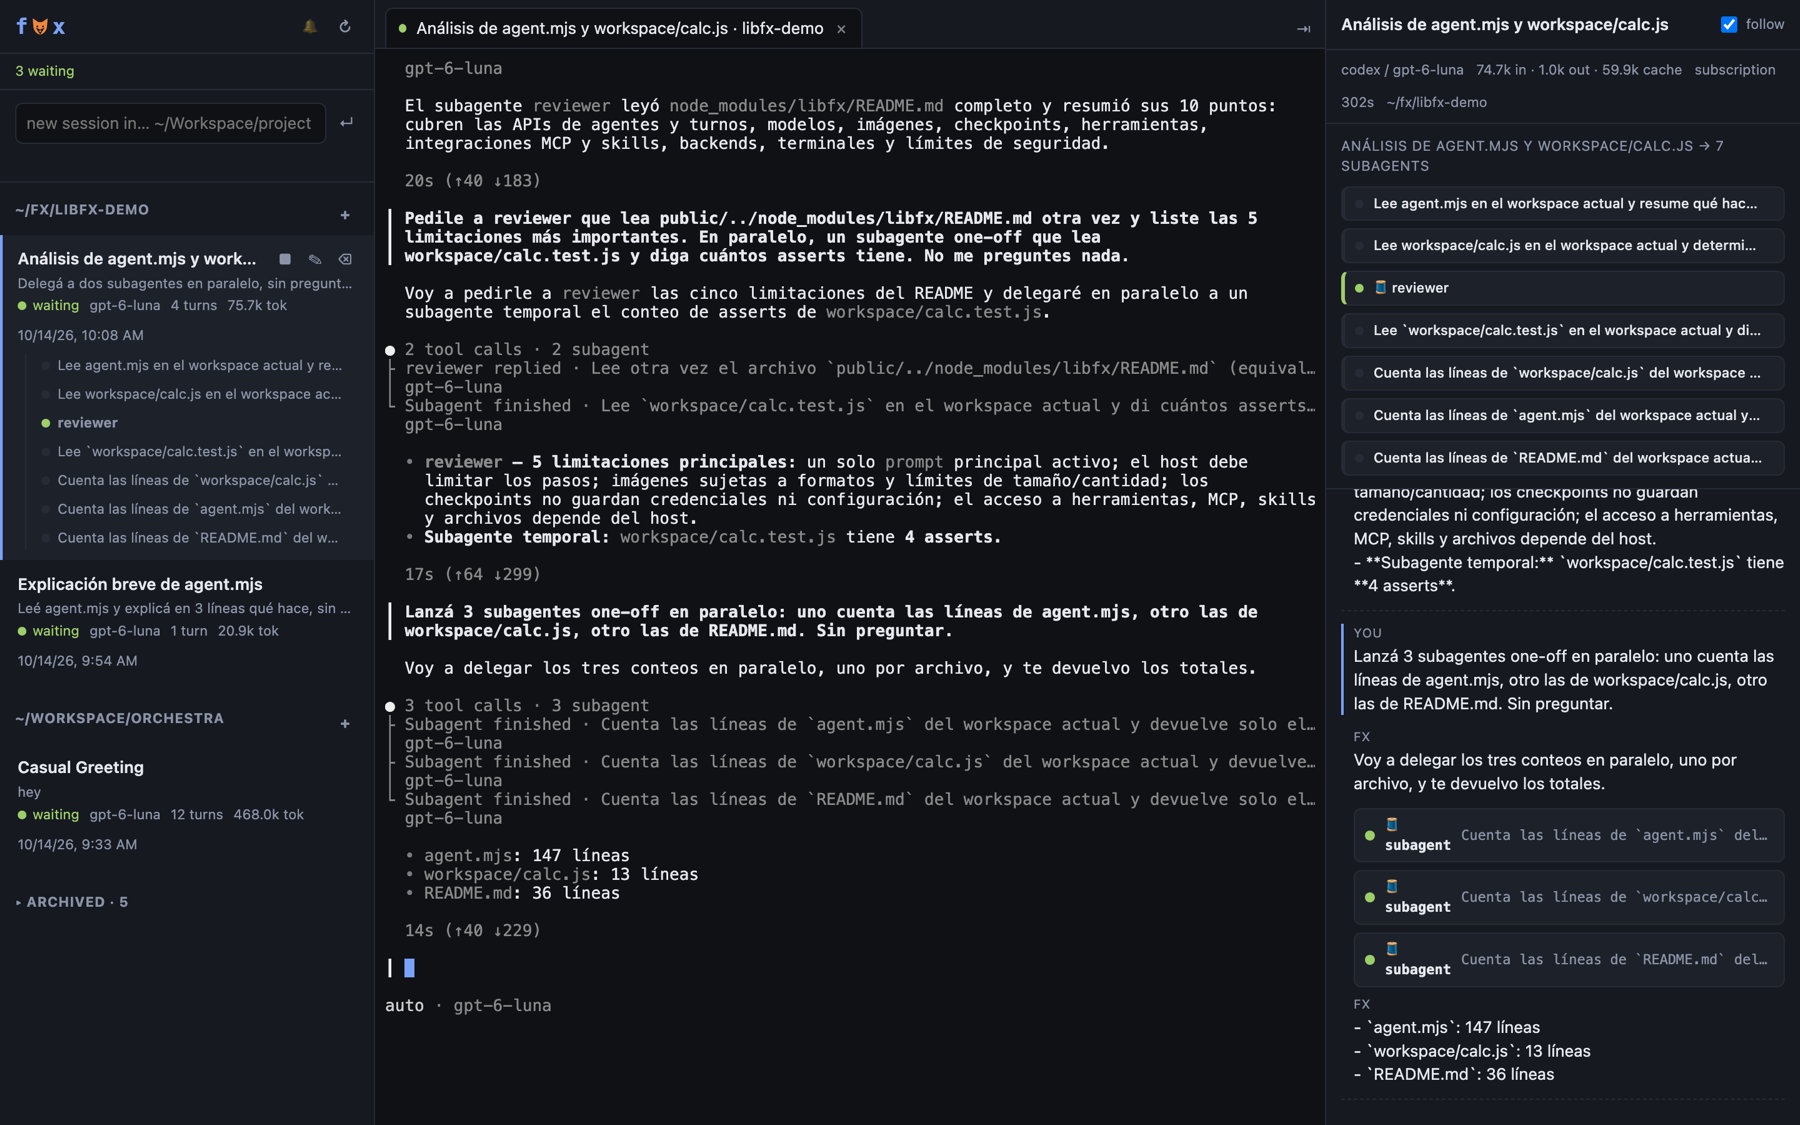
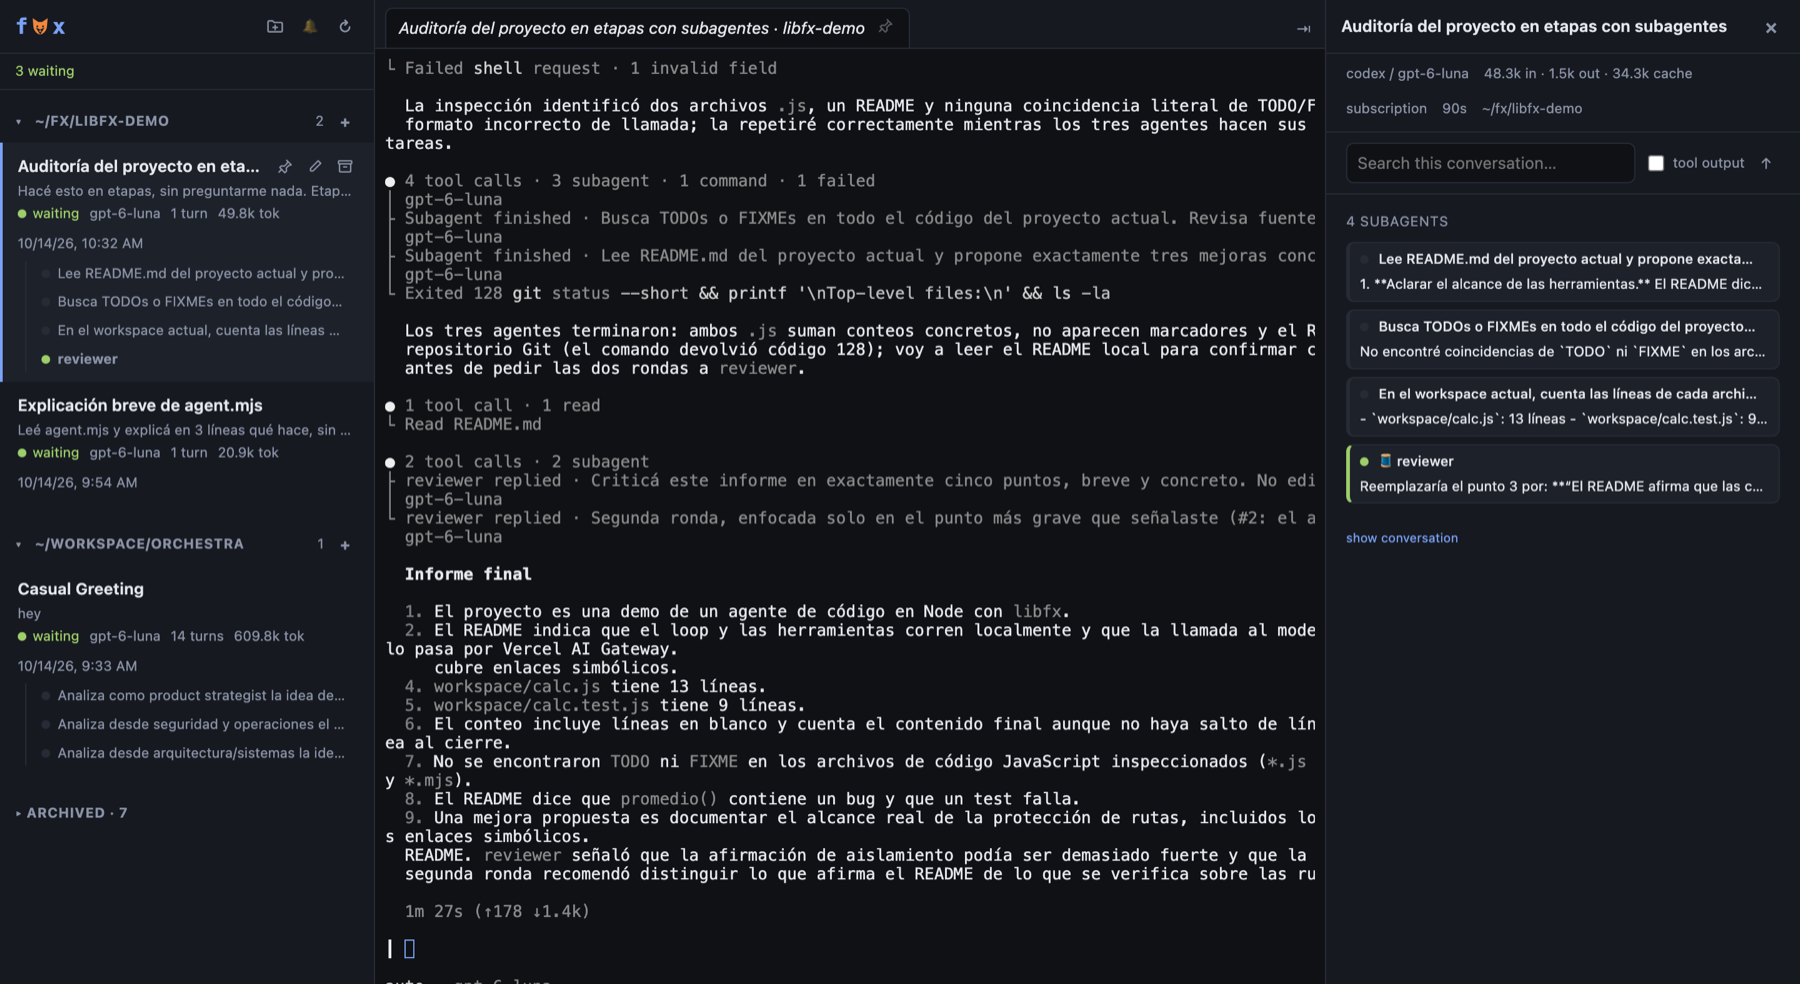
README rewrite for the current feature set; fresh screenshot

diff --git a/README.md b/README.md
@@ -3,27 +3,28 @@
 <h1 align="center">fox</h1>
 
 <p align="center"><b>A tiny local cockpit for the <a href="https://fx.sh">fx</a> coding agent.</b><br/>
-Every session, every subagent, every terminal. One tab. Nothing leaves your machine.</p>
+Every session, every subagent, one terminal that never dies. Nothing leaves your machine.</p>
 
-<p align="center"><img src="docs/screenshot.png" alt="fox: sessions on the left, a tmux-backed fx terminal in the middle, the subagent board and transcript on the right" /></p>
+<p align="center"><img src="docs/screenshot.png" alt="fox: sessions grouped by project on the left, the real fx terminal in the middle, subagents and search on the right" /></p>
 
-<p align="center"><sub>One parent session that delegated to seven subagents. Left: the tree. Middle: the real fx terminal. Right: each subagent's state, answer and conversation.</sub></p>
+<p align="center"><sub>Left: sessions by project, with subagents nested under their parent. Middle: the real fx terminal, running in tmux. Right: the subagent board, search, tokens.</sub></p>
 
 ---
 
-fx is a 7 MB coding agent that lives in your terminal. It is fast and it is honest about being a shell, which also means that once you have four of them running across three repos you lose track of which one is waiting for you.
+fx is a 7 MB coding agent that lives in your terminal. It is fast and honest about being a shell, which also means that once you have four of them across three repos you lose track of which one is waiting for you, and you never quite see what the subagents did.
 
-fox fixes that. It reads what fx already writes to `~/.fx`, runs each session inside tmux so it never dies with a browser tab, and shows you the whole picture:
+fox fixes that. It reads what fx already writes to `~/.fx`, runs every session inside tmux so nothing dies with a browser tab, and shows the whole picture. It never talks to a model itself: it only runs the real `fx` binary, so it uses whatever provider you logged fx into, a ChatGPT subscription included.
 
-- **Sidebar of sessions** grouped by project, with the first prompt under each title so "Casual Greeting" makes sense again.
-- **Live state per agent**: `working`, `waiting`, `needs input`. The summary at the top tells you where you are needed. Optional beep and desktop notification when something finishes.
-- **Subagents, visibly.** Children nest under their parent, with their phase pulsing in real time. Pick the parent and you get a board: one card per subagent with its task, elapsed time, result and tokens.
-- **Terminals that survive.** Each session runs in a tmux session named `fx-<id>`. Close the tab, reload, restart the server, open it from a real terminal with `tmux attach -t fx-<id>`. It is still there.
-- **Search the conversation.** Type in the right column, get the matching messages, click one and the real terminal jumps there (tmux copy-mode search, highlighted). ↑ walks to earlier matches, "done" leaves search mode.
-- **Transcript viewer** for sessions whose terminal is not open, with tool calls you can expand, plus tokens and cost per session. Collapsed by default, one click away.
-- **Archive and rename** without touching fx's files. fox keeps its own notes in `~/.config/fox/state.json`.
+## What it does
 
-fox does not talk to any model. It only ever runs the real `fx` binary, so it uses whatever provider you logged fx into, including a ChatGPT subscription.
+- **Sessions by project.** The sidebar groups fx sessions by workspace, collapsible per folder, with the first prompt under each title so fx's auto-generated names ("Casual Greeting") make sense. Groups with running agents sort first.
+- **Live state.** Each running session shows `working`, `waiting` or `needs input`, read from the tmux screen every few seconds. The summary at the top counts them. A 🔔 toggle beeps and sends a desktop notification when an agent finishes a turn or asks for input.
+- **Subagents, visibly.** Children nest under their parent and pulse while they run. Select the parent and you get one row per subagent with its state, elapsed time and the answer it returned. Select a child and you see exactly what it gave back to the parent, every round for named agents, and its own conversation underneath.
+- **One terminal, pinned tabs.** Clicking a session shows its terminal in the middle as a preview; clicking another replaces it. Pin the ones you want to keep as tabs. Either way fx keeps running in tmux: close the tab, reload, restart fox, `tmux attach -t fx-<id>` from a real terminal, it is all still there.
+- **Search the conversation.** Type in the right column, get the matching messages, click one and the terminal jumps to that text (tmux copy-mode search, highlighted). ↑ walks to earlier matches, `done` leaves search mode. Tool output and files the agent read are searchable too, behind a checkbox.
+- **Tokens and cost** per session, and a transcript viewer with expandable tool calls for sessions whose terminal is not open.
+- **Archive and rename** without touching fx's files. Archiving a running session stops its process first, after asking.
+- **Open any folder** with the native macOS picker, or the `+` on a group for a new session in that project.
 
 ## Run it
 
@@ -35,36 +36,50 @@ npm install
 npm start
 ```
 
-Open http://127.0.0.1:4848. `PORT` and `FX_BIN` are the only knobs. Deep links work too: `?session=<id>` selects a session, `?open=<id>` also opens its terminal.
+Open http://127.0.0.1:4848. Knobs: `PORT`, `FX_BIN` (path to the fx binary), `TMUX_BIN`.
+
+Deep links: `?session=<id>` selects a session, `?open=<id>` also opens its terminal.
 
 ## How to read the screen
 
-| Column | What it is |
+| Where | What |
 |---|---|
-| Left | Sessions from `~/.fx/sessions`, grouped by workspace. Click one to open it. `+` on a group starts a fresh session there. Hover for ✎ rename, ⌫ archive, ■ stop. |
-| Middle | The current terminal (preview, italic) plus pinned tabs. `📌` pins, `×` unpins. fx keeps running either way. |
-| Right (⇥) | Search box, tokens and cost, the subagent board when there are children, and the transcript when the session's terminal is not open. |
+| Left | Sessions from `~/.fx/sessions`, grouped by workspace. Click to open. Hover for pin, rename, archive. `+` on a group starts a new session there; the folder icon in the header opens any other folder. |
+| Middle | The current terminal (preview, italic) plus pinned tabs. 📌 pins, × unpins. fx keeps running either way. |
+| Right (⇥) | Search, tokens and cost, the subagent board when there are children, and the transcript when the session's terminal is not open. × closes it. |
 
-States come from the tmux screen rather than from fx's event log, because fx flushes that log only at the end of a turn. It is a heuristic: a spinner with seconds means working, the prompt means waiting, a yes/no question means needs input.
+## How it works
 
-## Subagents
+fx keeps everything on disk and fox only reads it:
 
-fx can delegate work to subagents, one-off or named ("create a subagent named reviewer"). fx writes the family tree to disk: the parent keeps `subagent/children.json` with each child's phase, and every child points back with `subagent/owner.json`. fox reads both every few seconds, which is why the board updates while the agents are still running.
+- `~/.fx/sessions/<id>/session.json`: title, workspace, model.
+- `events.jsonl`: every message, tool call and result. fx flushes it at the end of each turn, which is why live state comes from the tmux screen instead: a spinner with seconds means working, the prompt means waiting, a yes/no question means needs input.
+- `subagent/children.json` in the parent and `subagent/owner.json` in each child: the family tree, with each child's phase, task, start time and outcome. This file does update while subagents run.
+- `usage-v2.json`: tokens, cost, wall time. Subagents bill to their parent.
 
-Try it in any session:
+Terminals are tmux sessions named `fx-<session id>`, created with `fx session resume <id>` in the session's workspace. The browser attaches over a WebSocket through node-pty and detaches when the tab closes. tmux is told to size the window to the most recent active client, so a second browser or a real terminal can attach without fighting.
+
+fox's own state (archived ids, custom names, pins, collapsed groups) lives in `~/.config/fox/state.json` and the browser's local storage.
+
+## Try the subagents
+
+Open a session in any project and paste:
 
 ```
-Delegate to two subagents in parallel: one reads README.md and summarizes it, the other lists the files that lack tests. Merge their answers when done.
+Do this in stages, without asking me anything. Stage 1: launch three one-off subagents in parallel: one counts the lines of every .js file, one looks for TODOs or FIXMEs, one reads README.md and proposes three improvements. Wait for all three. Stage 2: write a ten-line report from their answers. Stage 3: create a subagent named reviewer and ask it to critique the report in five points. Stage 4: ask reviewer for a second round on the most serious point only. Stage 5: fold the critique in and show the final report, saying what changed thanks to each subagent.
 ```
+
+Watch the sidebar: three children appear and pulse, the parent sits in `working` without writing anything until they return, `reviewer` stays alive in green between rounds while the one-offs go grey as they finish.
 
 ## Why not libfx?
 
-Vercel ships `libfx`, a library version of the agent, and a browser terminal built on it. fox deliberately runs the CLI instead: it is the same binary you use by hand, it shares the same sessions, and it works with the subscription you already have. libfx needs an AI Gateway key and keeps its own state.
+Vercel ships `libfx`, a library version of the agent, and a browser terminal built on it. fox runs the CLI instead on purpose: it is the same binary you use by hand, it shares the same sessions and subscription, and it does not need an AI Gateway key.
 
 ## Gotchas
 
 - `node-pty` ships a `spawn-helper` that npm installs without the execute bit. The `postinstall` script fixes it; if you see `posix_spawnp failed`, run `chmod +x node_modules/node-pty/prebuilds/*/spawn-helper`.
 - fx allows one process per session. If a session is open in another terminal, fox shows `other terminal` and only lets you read it.
-- Session titles are fx's: it asks the model for one after the first turn. Rename in fox if you disagree.
+- tmux search covers the session's scrollback (20,000 lines). Very old matches still appear in the list but may not be reachable in the terminal.
+- The native folder picker is macOS only. Shift-click the folder icon to type a path instead.
 
 MIT. Built in an afternoon with fx 0.0.13 and a lot of `tmux capture-pane`. Issues and forks welcome.
